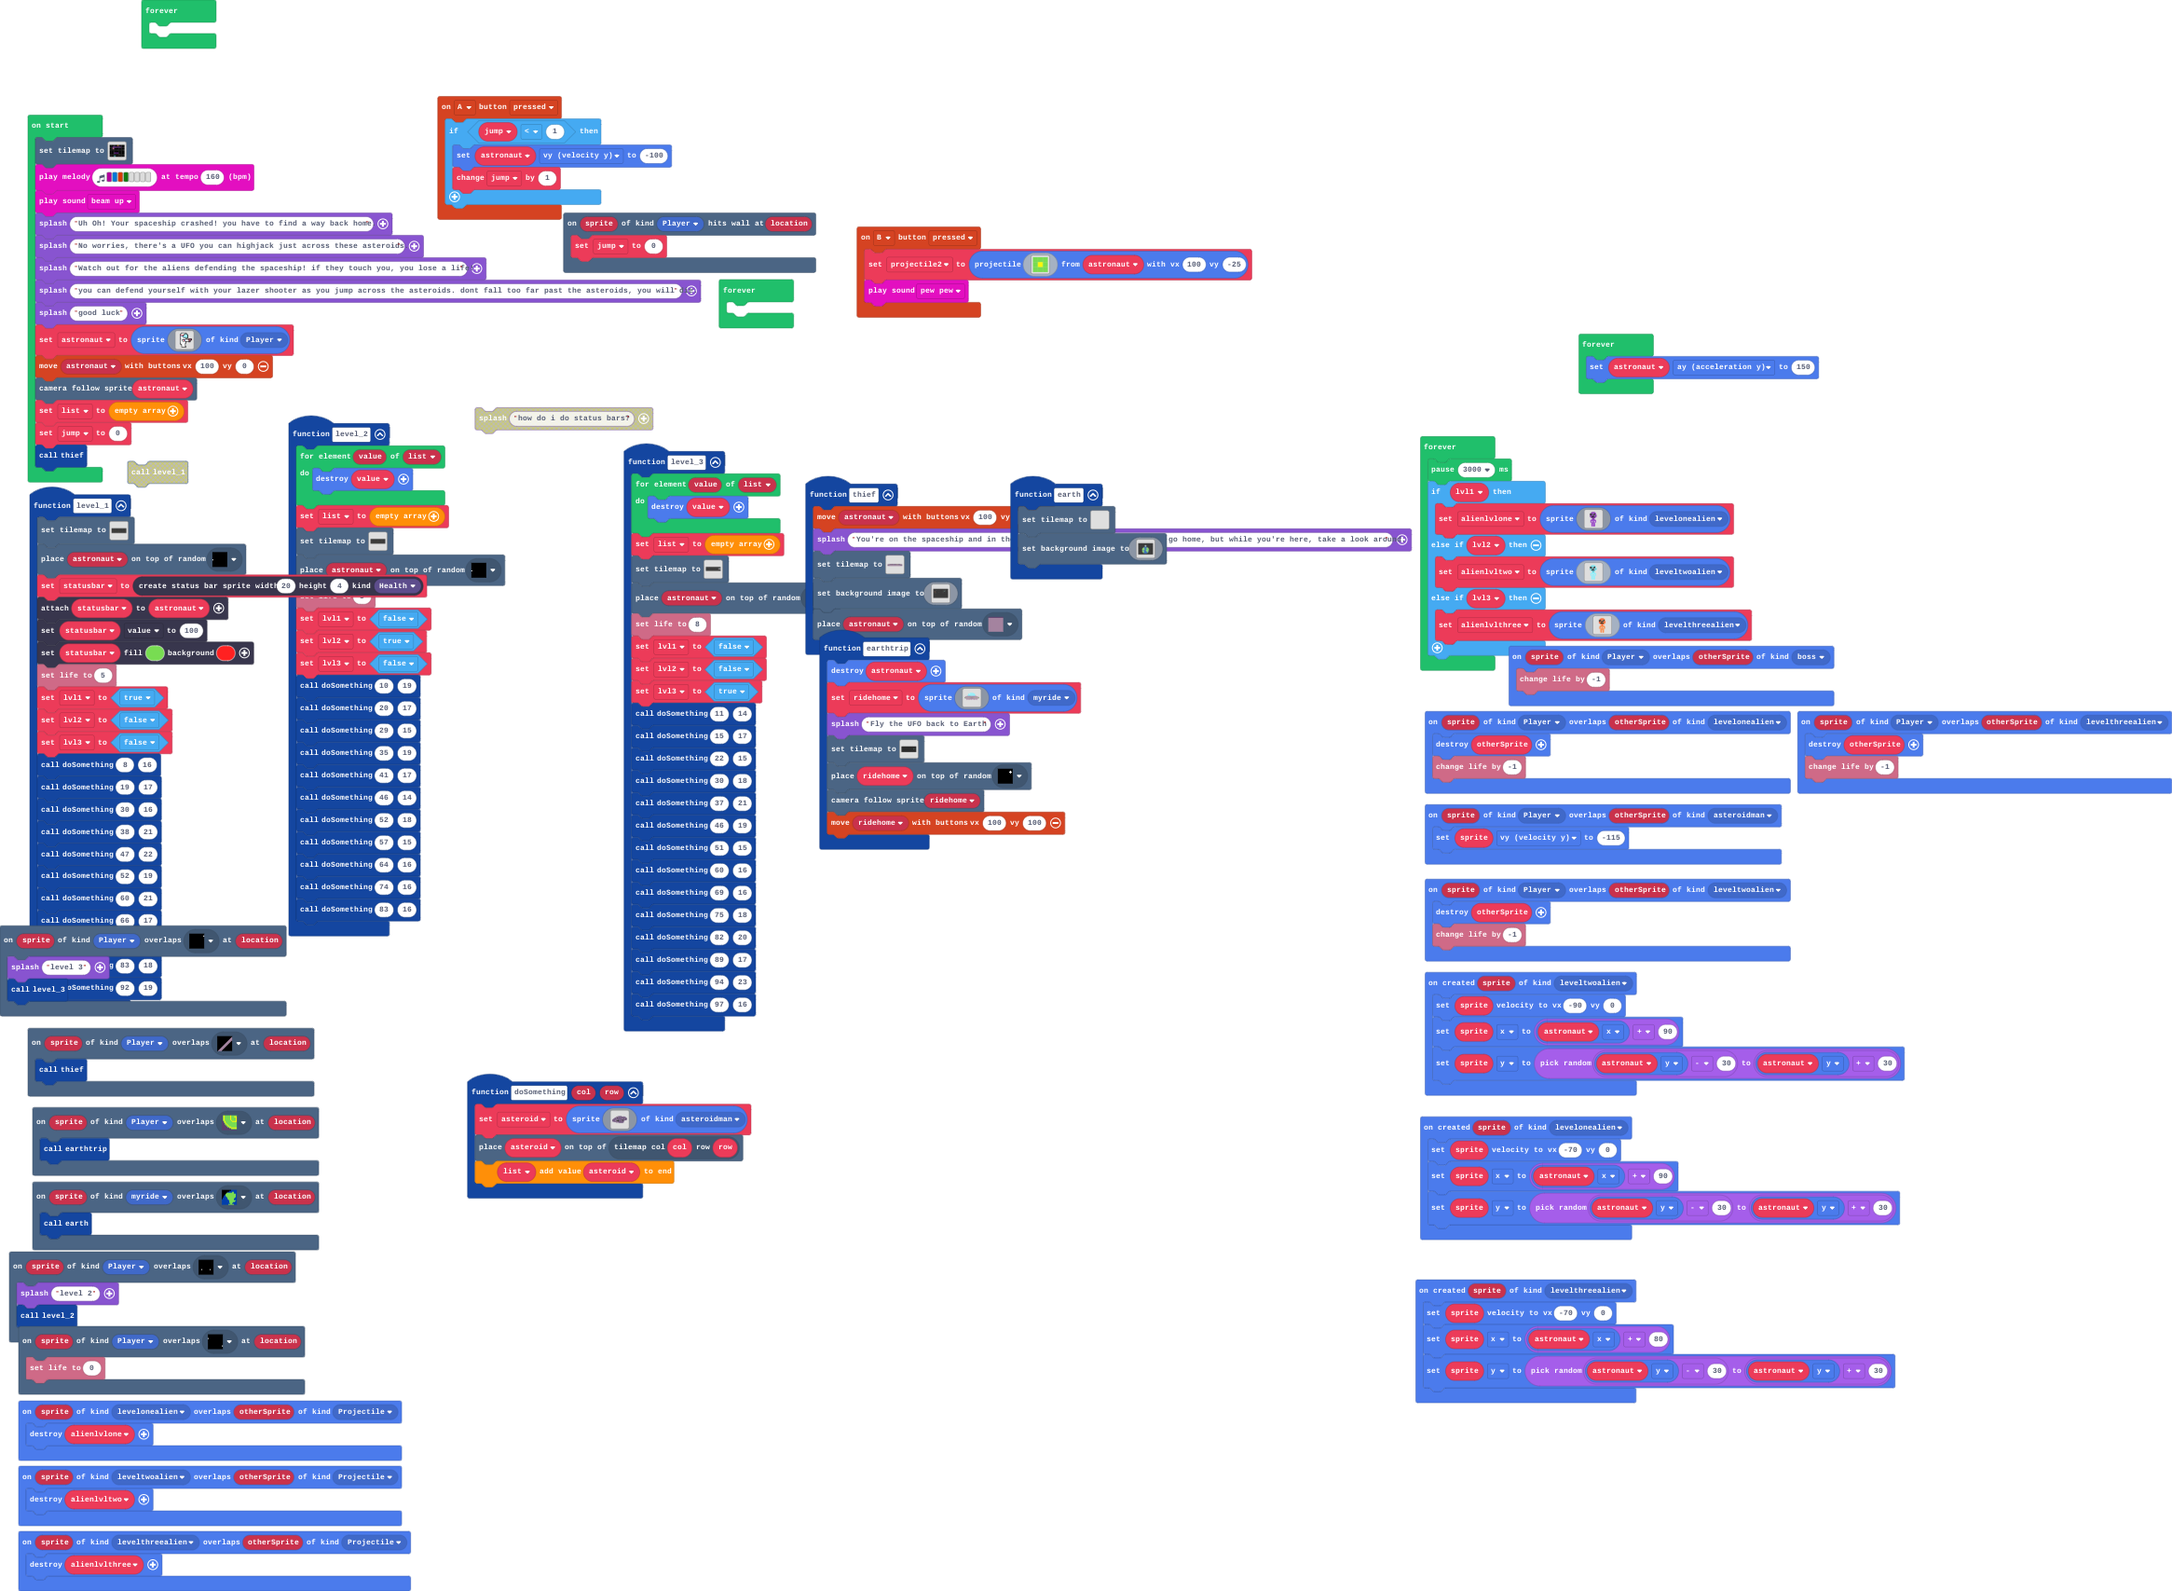
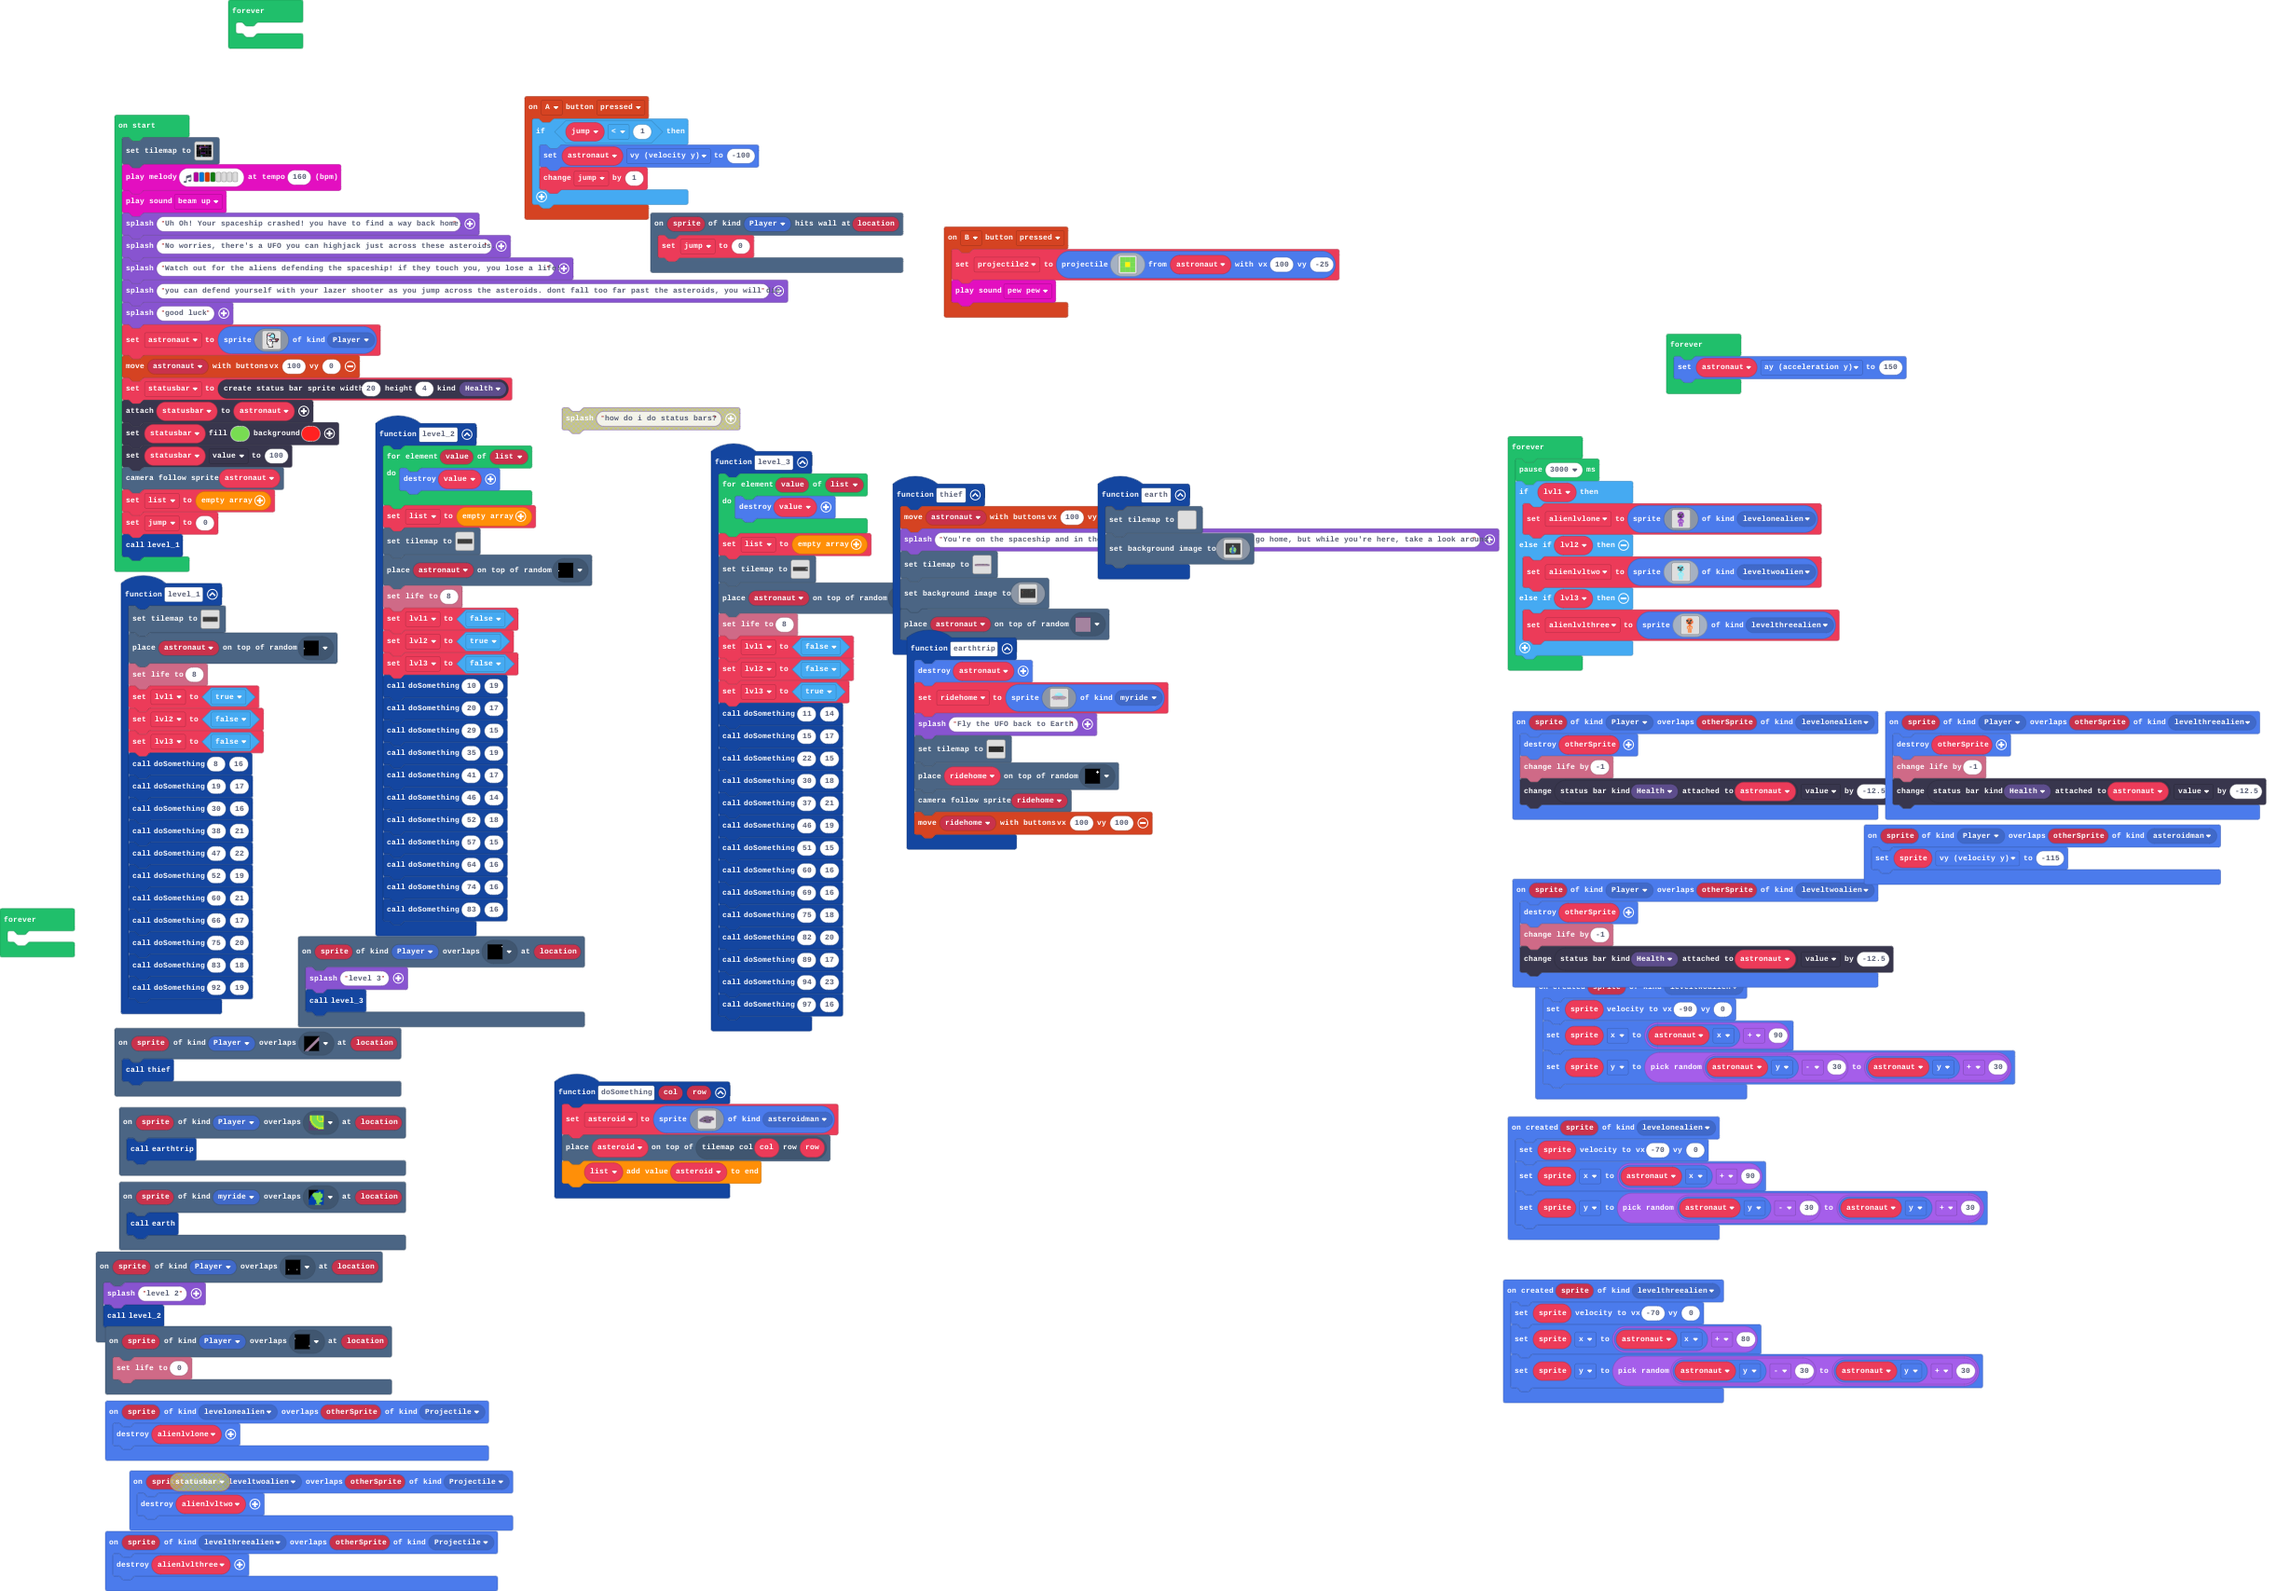
health bars

diff --git a/main.ts b/main.ts
@@ -50,9 +50,6 @@ function earthtrip () {
 sprites.onOverlap(SpriteKind.levelonealien, SpriteKind.Projectile, function (sprite, otherSprite) {
     alienlvlone.destroy()
 })
-sprites.onOverlap(SpriteKind.Player, SpriteKind.boss, function (sprite, otherSprite) {
-    info.changeLifeBy(-1)
-})
 scene.onHitWall(SpriteKind.Player, function (sprite, location) {
     jump = 0
 })
@@ -74,6 +71,7 @@ sprites.onOverlap(SpriteKind.levelthreealien, SpriteKind.Projectile, function (s
 sprites.onOverlap(SpriteKind.Player, SpriteKind.levelonealien, function (sprite, otherSprite) {
     otherSprite.destroy()
     info.changeLifeBy(-1)
+    statusbars.getStatusBarAttachedTo(StatusBarKind.Health, astronaut).value += -12.5
 })
 scene.onOverlapTile(SpriteKind.Player, assets.tile`myTile34`, function (sprite, location) {
     earthtrip()
@@ -84,6 +82,7 @@ scene.onOverlapTile(SpriteKind.Player, assets.tile`myTile22`, function (sprite, 
 sprites.onOverlap(SpriteKind.Player, SpriteKind.leveltwoalien, function (sprite, otherSprite) {
     otherSprite.destroy()
     info.changeLifeBy(-1)
+    statusbars.getStatusBarAttachedTo(StatusBarKind.Health, astronaut).value += -12.5
 })
 controller.A.onEvent(ControllerButtonEvent.Pressed, function () {
     if (jump < 1) {
@@ -265,7 +264,7 @@ function level_2 () {
     list = []
     tiles.setTilemap(tilemap`level35`)
     tiles.placeOnRandomTile(astronaut, assets.tile`myTile4`)
-    info.setLife(5)
+    info.setLife(8)
     lvl1 = false
     lvl2 = true
     lvl3 = false
@@ -292,6 +291,7 @@ sprites.onOverlap(SpriteKind.leveltwoalien, SpriteKind.Projectile, function (spr
 sprites.onOverlap(SpriteKind.Player, SpriteKind.levelthreealien, function (sprite, otherSprite) {
     otherSprite.destroy()
     info.changeLifeBy(-1)
+    statusbars.getStatusBarAttachedTo(StatusBarKind.Health, astronaut).value += -12.5
 })
 scene.onOverlapTile(SpriteKind.myride, assets.tile`myTile38`, function (sprite, location) {
     earth()
@@ -431,11 +431,7 @@ function earth () {
 function level_1 () {
     tiles.setTilemap(tilemap`level7`)
     tiles.placeOnRandomTile(astronaut, assets.tile`myTile4`)
-    statusbar = statusbars.create(20, 4, StatusBarKind.Health)
-    statusbar.attachToSprite(astronaut)
-    statusbar.value = 100
-    statusbar.setColor(7, 2)
-    info.setLife(5)
+    info.setLife(8)
     lvl1 = true
     lvl2 = false
     lvl3 = false
@@ -477,7 +473,6 @@ function level_3 () {
     doSomething(94, 23)
     doSomething(97, 16)
 }
-let statusbar: StatusBarSprite = null
 let alienlvltwo: Sprite = null
 let lvl3 = false
 let lvl2 = false
@@ -531,13 +526,14 @@ astronaut = sprites.create(img`
     .........fffffffff............
     `, SpriteKind.Player)
 controller.moveSprite(astronaut, 100, 0)
+let statusbar = statusbars.create(20, 4, StatusBarKind.Health)
+statusbar.attachToSprite(astronaut)
+statusbar.setColor(7, 2)
+statusbar.value = 100
 scene.cameraFollowSprite(astronaut)
 list = []
 jump = 0
-thief()
-forever(function () {
-	
-})
+level_1()
 forever(function () {
 	
 })
@@ -646,4 +642,7 @@ forever(function () {
             ...........444.444............
             `, SpriteKind.levelthreealien)
     }
+})
+forever(function () {
+	
 })
